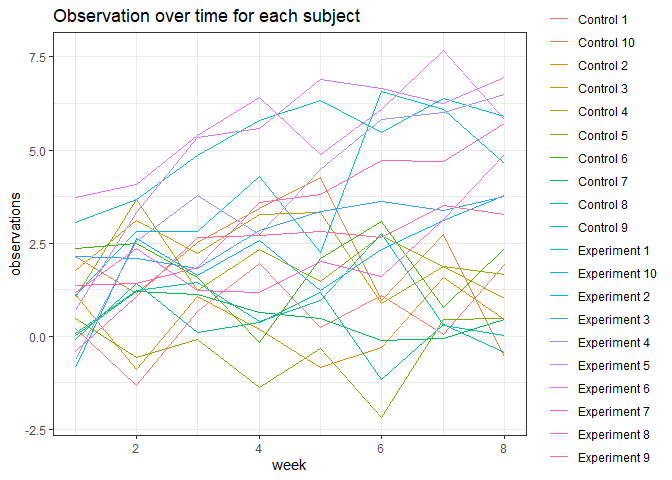
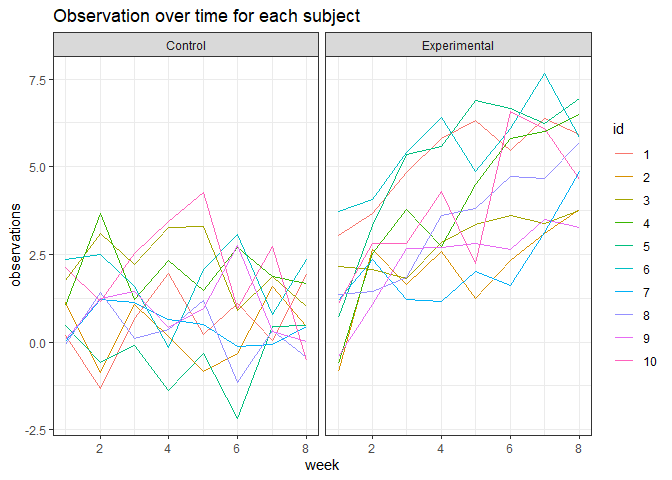
Finished Problem 1 and Explanations

diff --git a/p8105_hw5_as6183.md b/p8105_hw5_as6183.md
@@ -9,6 +9,11 @@ data = read.csv("C:/Users/13038/Downloads/homicide-data.csv")
 
 **Description of Raw Data:**
 
+The raw data set contains 52179 rows and 12 columns. The data gives
+information about the number of homicides in 50 large US cities such as
+information on the victim, the outcome of the case, the location of the
+crime, and the reported date of the crime.
+
 ``` r
 library(tidyverse)
 ```
@@ -26,7 +31,7 @@ library(tidyverse)
 
 ``` r
 data = data%>%
-  mutate(city_state = paste(city,state,sep=", "))
+  mutate(city_state = str_c(city,state,sep=", "))
 
 tab_1 = data%>%
   group_by(city_state)%>%
@@ -117,31 +122,19 @@ Baltimore_Unsolved = tab_final%>%
              pull(Baltimore_Unsolved,`Total`)
      )%>%
    broom::tidy()%>%
-   select(estimate,conf.low,conf.high)%>%
-   mutate(city_state = pull(Baltimore_Unsolved,city_state))%>%
-   select(city_state,estimate,conf.low,conf.high)
+   select(estimate,conf.low,conf.high)
 
-
-
-prop_test_func = function(data) {
-  prop.test(pull(data,Unsolved),pull(data,Total))%>%
-    broom::tidy()%>%
-    select(estimate,conf.low,conf.high)
-}
  
  Unsolved_Prop_Final = tab_final%>%
-   group_by(city_state)%>%
-   mutate(Total = as.double(Total), Unsolved = as.double(Unsolved))%>%
-   nest()%>%
-  mutate(prop_unsolved = map(data, prop_test_func))%>%
-   unnest()%>%
+  mutate(
+      prop_unsolved = map2(.x = Unsolved, .y = Total, ~prop.test(x = .x, n = .y)), 
+      tidy = map(.x = prop_unsolved, ~broom::tidy(.x))
+    ) %>%
+  select(-prop_unsolved) %>%
+  unnest(tidy) %>%
+  select(city_state , estimate, conf.low, conf.high)%>%
    arrange(estimate)
-```
-
-    ## Warning: `cols` is now required when using unnest().
-    ## Please use `cols = c(data, prop_unsolved)`
-
-``` r
+  
  Unsolved_Prop_Final%>%
    ggplot(aes(x = reorder(city_state,estimate), y = estimate)) +
    geom_bar(stat="identity")+
@@ -159,20 +152,34 @@ prop_test_func = function(data) {
 ``` r
 setwd("./data")
 files = list.files(".")
-data = purrr::map_dfr(files,read.csv)%>%
-  mutate(id = c(paste0("Control"," ",seq(1,10)),paste0("Experiment"," ",seq(1,10))))%>%
+data = files %>%          
+  map(~ read_csv(.))%>%
+  reduce(rbind) %>%
+  mutate(Control_Exp = c(rep("Control",10),rep("Experimental",10)),id = c(seq("1","10"),seq("1","10")))%>%
   pivot_longer(week_1:week_8,names_to="week",values_to = "observations")%>%
   mutate(week = recode(week,week_1 = "1", week_2 = "2", week_3 = "3", week_4 = "4", week_5 = "5", week_6 = "6", week_7 = "7", week_8 = "8"))%>%
-  mutate(week = as.numeric(week))
+  mutate(week = as.numeric(week), id = factor(id))
 
 ggplot(data,aes(x = week, y = observations, color = id)) +
           geom_line() +
+          facet_grid(.~Control_Exp)+
           theme_bw()+
           ggtitle("Observation over time for each subject")+
-          theme(legend.title = element_blank(),legend.text = element_text(size=9))
+          theme(legend.text = element_text(size=9))
 ```
 
 ![](p8105_hw5_as6183_files/figure-gfm/unnamed-chunk-4-1.png)<!-- -->
+
+**Comments on Differences between Groups:**
+
+From the spaghetti plot shown above we can see that the Control group in
+general has a lower observation value when compared to the experimental
+group. Furthermore, for the experimental group the values in general got
+larger over time whereas in the control group the values never got very
+large even though both the control and experimental groups started off
+at similar values. This can be seen especially in the later weeks as the
+experimental values are much higher than the control values at these
+times.
 
 # Problem 3:
 
@@ -183,67 +190,74 @@ n = 30
 sd = 5
 mu = 0
 set.seed(234)
-sim_mean_sd = function(n,mu ,sd) {
+sim_mean_t_test = function(n,mu ,sd) {
   
   sim_data = tibble(
     x = rnorm(n, mean = mu, sd = sd),
   )
   
-  t_test = t.test(pull(sim_data,x), mu = mu)%>%
+  t.test(sim_data, mu = 0)%>%
     broom::tidy()%>%
-    dplyr::select(p.value)
-  
-  sim_data %>% 
-    summarize(
-      mu_hat = mean(x),
-      p_val = t_test
-    )
+    dplyr::select(estimate,p.value)
 }
 
-sim_results = 
-  rerun(5000, sim_mean_sd(30, 0, 5)) %>% 
+sim_results_mu_equals_0 = 
+  rerun(5000, sim_mean_t_test(30, 0, 5)) %>% 
   bind_rows()
 
 sim_results_diff_mus = 
   tibble(mu = seq(0,6)) %>% 
   mutate(
-    output_lists = map(.x = mu, ~rerun(5000, sim_mean_sd(n = 30,mu = .x, sd = 5))),
+    output_lists = map(.x = mu, ~rerun(5000, sim_mean_t_test(n = 30,mu = .x, sd = 5))),
     estimate_dfs = map(output_lists, bind_rows)) %>% 
   select(-output_lists) %>% 
   unnest(estimate_dfs)
 
 num_rej = sim_results_diff_mus%>%
   group_by(mu)%>%
-  filter(p_val<0.05)%>%
+  filter(p.value<0.05)%>%
   summarize(n_rej = n())
 ```
 
     ## `summarise()` ungrouping output (override with `.groups` argument)
 
 ``` r
-df = num_rej%>%
-  mutate(prop_rej = n_rej/5000)
-
-df%>%
-  ggplot(aes(mu,prop_rej))+
-  geom_point()+
-  ggtitle("mu vs proportion of times null was rejected")+
+num_rej%>%
+  ggplot(aes(mu,n_rej/5000,fill = mu),col = "black")+
+  geom_bar(stat="identity")+
+  ggtitle("Proportion of times null was rejected with different mu values")+
   xlab("True Value of mu")+
   ylab("Proportion of Times Null Was Rejected")+
+  geom_text(aes(label=n_rej/5000),position = position_nudge(y=0.04))+
+  scale_x_continuous(breaks=seq(0,6))+
   theme(title = element_text(size=10))
 ```
 
 ![](p8105_hw5_as6183_files/figure-gfm/unnamed-chunk-5-1.png)<!-- -->
 
+**Explanation of Graph:**
+
+When the true mu value increases further and further away from 0, the
+effect size increases as the true mu value is further and further away
+from what we are supposed to get in the null hypothesis. From the graph
+we can see that as the effect size increases, the power or the
+proportion of times the null hypothesis was rejected increases. This
+make sense because our null hypothesis is that mu = 0 so when mu = 0,
+the null hypothesis should be rejected the least when compared to higher
+values of mu. Therefore, from this graph we can conclude there is a
+strong positive correlation between effect size and power.
+
 ``` r
 plot_1 = sim_results_diff_mus%>%
   group_by(mu)%>%
-  summarise(avg_mu_hat = mean(mu_hat))%>%
+  summarise(avg_mu_hat = mean(estimate))%>%
   ggplot(aes(mu,avg_mu_hat))+
   geom_point()+
-  ggtitle("mu vs Average estimate of mu")+
-  xlab("True Value of mu")+
+  ggtitle("True mu vs Average estimate of mu")+
   ylab("Average estimate of mu")+
+  geom_text(aes(label=round(avg_mu_hat,3)),size=2.5,position = position_nudge(y = 0.2))+
+  xlab("True Value of mu")+
+  scale_x_continuous(breaks=seq(0,6))+
   theme(title = element_text(size=10))
 ```
 
@@ -251,14 +265,16 @@ plot_1 = sim_results_diff_mus%>%
 
 ``` r
 plot_2 = sim_results_diff_mus%>%
-  filter(p_val<0.05)%>%
+  filter(p.value<0.05)%>%
   group_by(mu)%>%
-  summarise(avg_mu_hat = mean(mu_hat))%>%
+  summarise(avg_mu_hat = mean(estimate))%>%
   ggplot(aes(mu,avg_mu_hat))+
   geom_point()+
-  ggtitle("mu vs Average estimate of mu when H_0 was rejected")+
-  xlab("True Value of mu")+
+  ggtitle("True mu vs Average estimate of mu for rejected")+
   ylab("Average estimate of mu")+
+  geom_text(aes(label=round(avg_mu_hat,3)),size=2.5,position = position_nudge(y = 0.2))+
+  scale_x_continuous(breaks=seq(0,6))+
+  xlab("True Value of mu")+
   theme(title = element_text(size=8))
 ```
 
@@ -268,4 +284,32 @@ plot_2 = sim_results_diff_mus%>%
 plot_1 + plot_2
 ```
 
-![](p8105_hw5_as6183_files/figure-gfm/unnamed-chunk-5-2.png)<!-- -->
+![](p8105_hw5_as6183_files/figure-gfm/unnamed-chunk-6-1.png)<!-- -->
+
+**Explanation for graph of sample average of mu when null hypothesis is
+rejected:**
+
+The sample average of mu is approximately equal to the true value of mu
+for only the samples where the null hypothesis is rejected for the
+larger mu values (3,4,5, and 6) as well as when mu = 0. This makes sense
+because our null hypothesis was mu = 0 thus if our estimate of mu is
+well above 0 which it should be when the true mu is 3,4,5, or 6 the null
+hypothesis will be rejected very frequently. Thus, most of the estimates
+for these true mu values would be included in the “rejection” data which
+is why the average estimate for these mu’s are close to the true mu
+value as any outliers would not have a very big effect due to the larger
+sample size. For true mu’s of 1 and 2, the average estimate of mu was
+high compared to the true value of mu. This could be due to the true
+mu’s being closer to 0 which means we reject less samples. This means
+that outliers in the estimates for these smaller mu values would have
+more of an impact on the average of the rejection data because the
+rejection data would be smaller. Furthermore, this trend can also be
+seen by how the values of the average estimate of mu get closer to the
+true value of mu as the true value of mu increases. For mu = 0, the
+number of times the null hypothesis was rejected was much lower when
+compared to the other mu values which makes sense as our null hypothesis
+was that mu = 0. The proportion of rejection for mu = 0 was actually
+0.051 which is close to our significance level of 0.05 thus indicating
+that type I errors or rejecting the null hypothesis when it is true
+could be why our estimated mean mu is so close to 0 and not effected as
+much by outliers as when the true mu value is 1 or 2.
